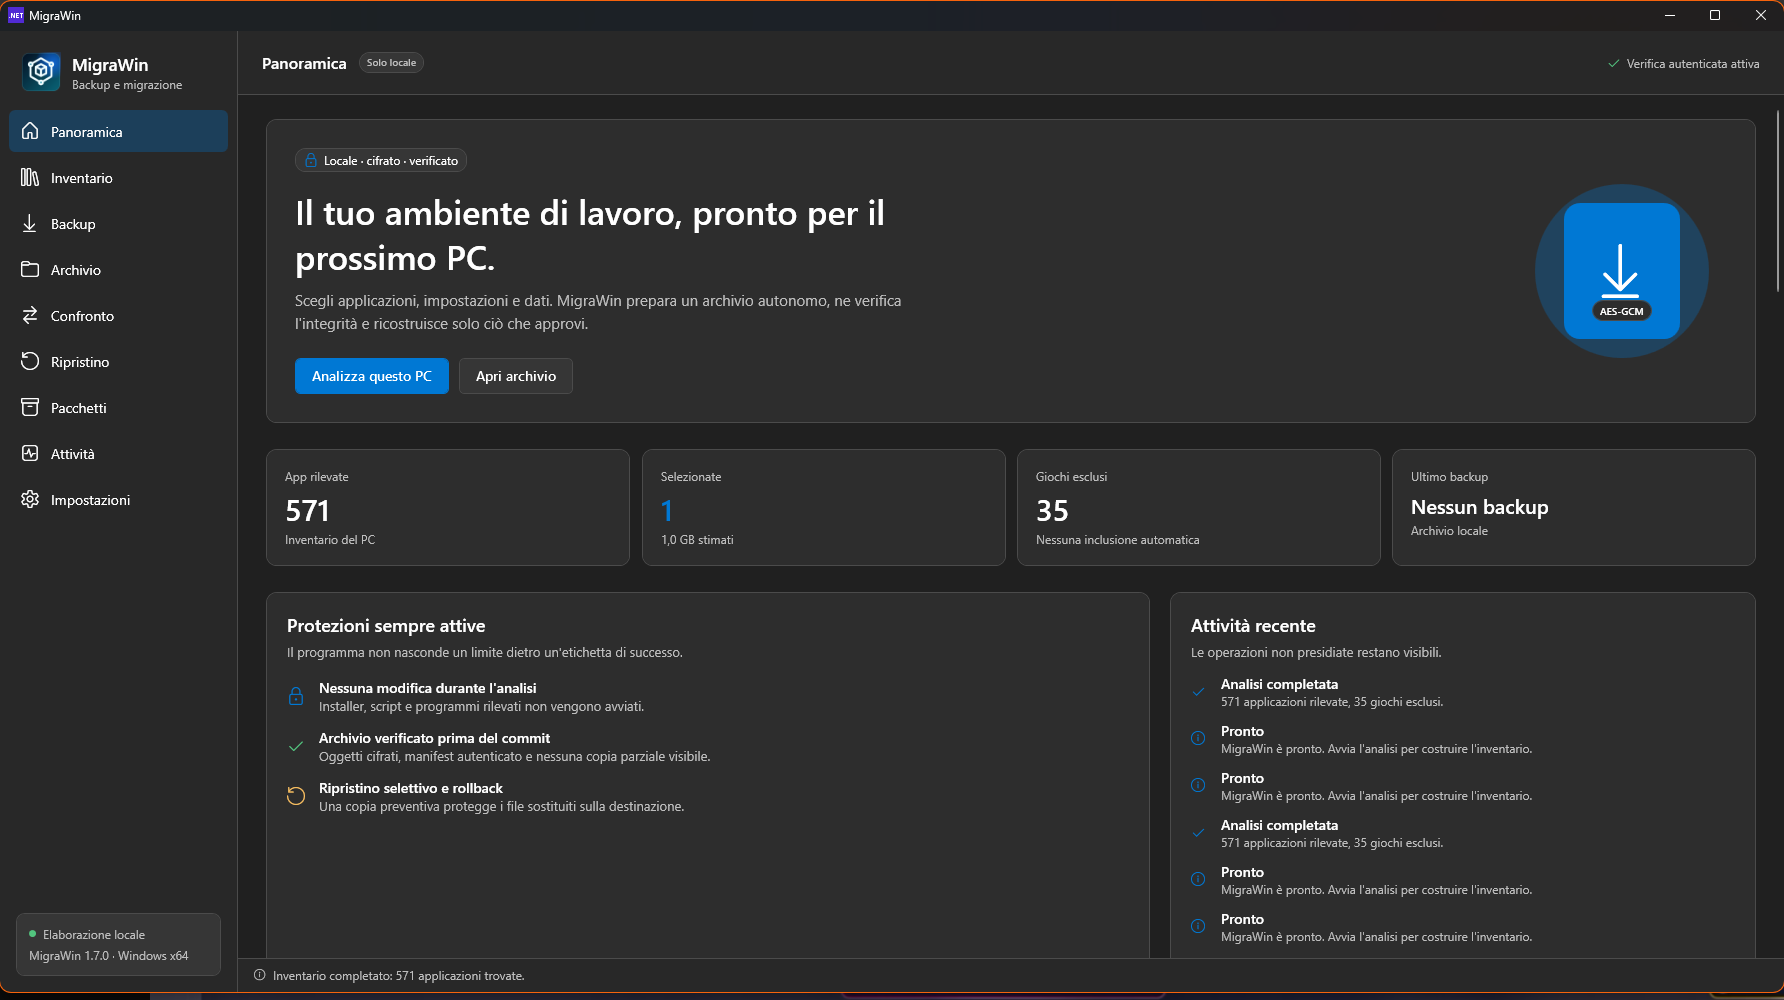
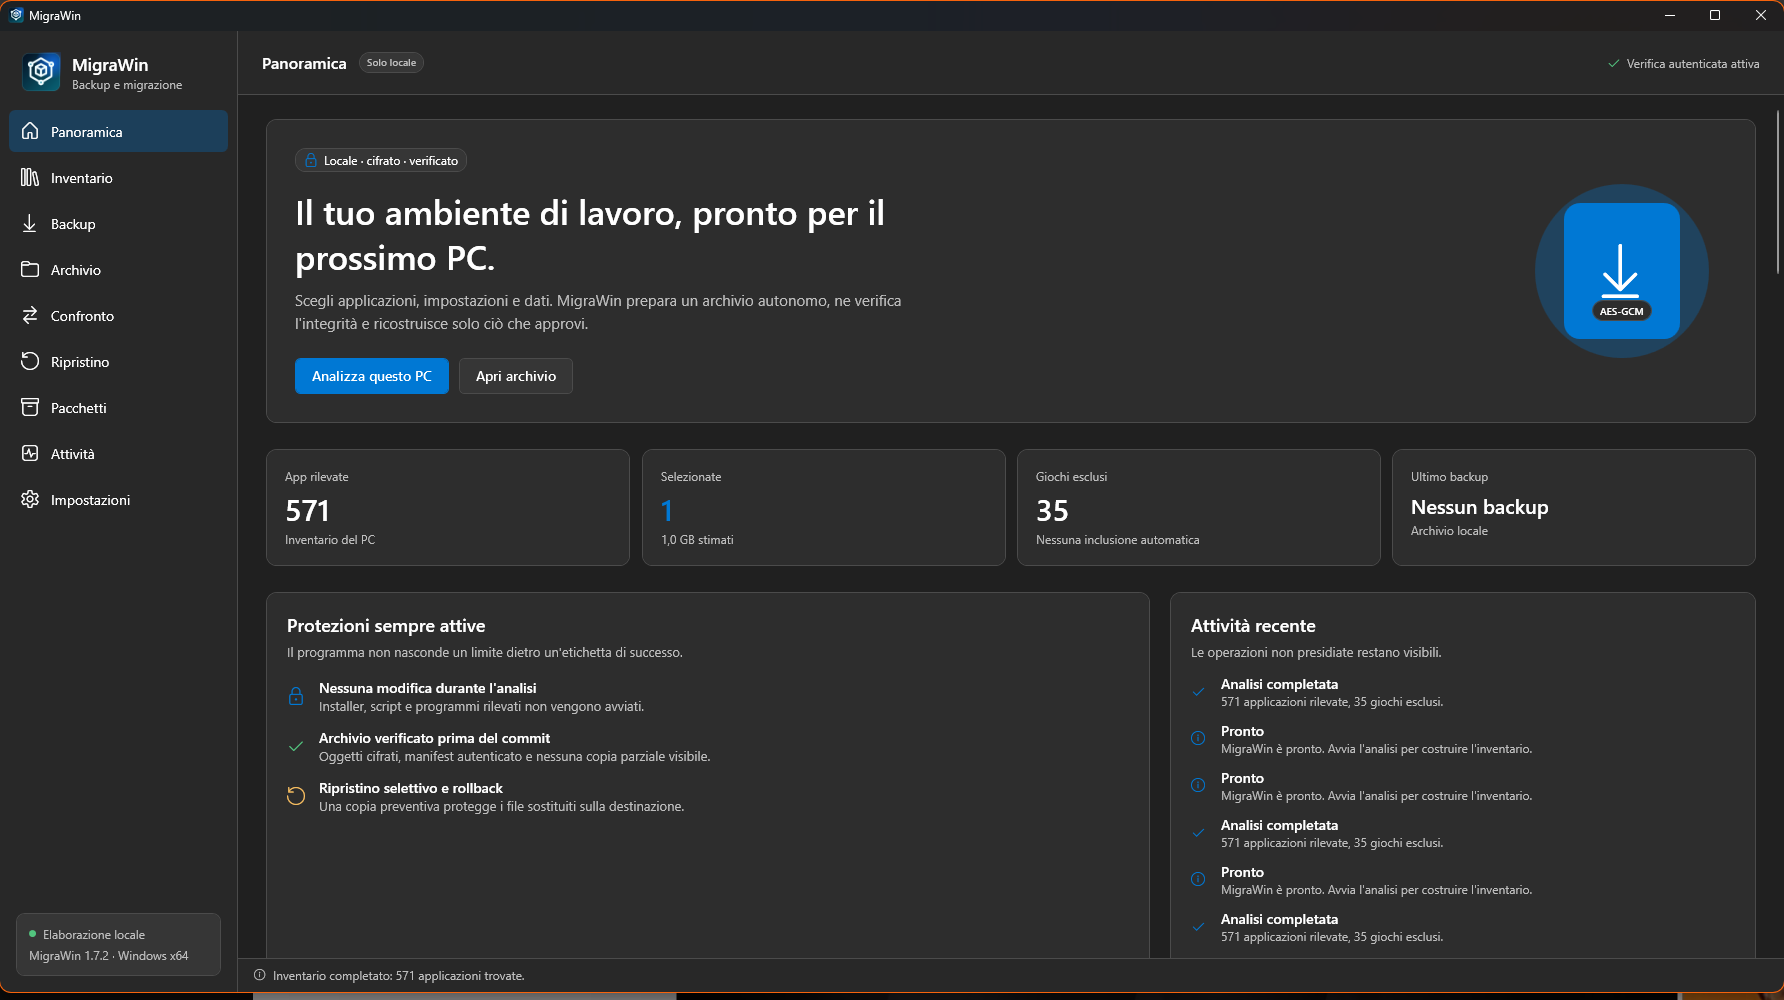
Record verified 1.7.2 release

Changed region(s): [[0.0617, 0.992, 1.0, 1.0], [0.6783, 0.899, 0.8324, 0.961], [0.0, 0.0, 0.0308, 0.031]]

diff --git a/PLAN.md b/PLAN.md
@@ -73,23 +73,24 @@ Ulteriori verifiche effettuate:
 - `dotnet list package --vulnerable --include-transitive`: nessun pacchetto vulnerabile;
 - build Debug e Release senza errori;
 - MSI installato con codice 0;
-- avvio del binario self-contained installato dalla release 1.7.0, finestra responsiva.
+- avvio del binario self-contained installato dalla release 1.7.2, finestra responsiva.
 - accessibilità UI: nessun controllo interattivo visibile privo di nome;
 - icone applicazione estratte dal PC e galleria promozionale ufficiale verificate visivamente in Visual Studio Code;
 - icona fornita e modernizzata verificata nell'API, nell'eseguibile e nella finestra installata;
 - repository pubblico: `https://github.com/renegadeFree/MigraWin`;
-- release pubblica: `https://github.com/renegadeFree/MigraWin/releases/tag/v1.7.0`;
-- GitHub Action della release `v1.7.0` completata con esito `success`;
-- Windows CI sul commit `57ba6a1` completata con esito `success`: build, test, installazione MSI, self-check, menu Start, collegamento Desktop e disinstallazione;
[1 lines of base64/hex data omitted]
+- release pubblica: `https://github.com/renegadeFree/MigraWin/releases/tag/v1.7.2`;
+- GitHub Action della release `v1.7.2` completata con esito `success`;
+- Windows CI sul commit `de52fc9` completata con esito `success`: build, test, installazione MSI, self-check, menu Start, collegamento Desktop e disinstallazione;
[1 lines of base64/hex data omitted]
 - aggiornamento reale 1.4.0 → 1.4.1 rilevato e scaricato;
 - installazione passiva MSI verificata da `Downloads\MigraWinUpdates`;
-- release pubblica `v1.7.0` installata con codice 0 e avviata correttamente;
+- release pubblica `v1.7.2` installata con codice 0 e avviata correttamente;
 - collegamento Desktop verificato prima dell'installazione, dopo l'installazione e dopo la disinstallazione;
 - scansione reale con applicazioni e strumenti, inclusi script personali e configurazioni locali;
 - strumenti verificati nell'inventario: Enter for rename, PM2, n8n, Pi Agent e Proxy DeepSeek per Codex;
 - n8n verificato con package da circa 1 GB, database/WAL, storage, nodi personalizzati, wrapper CLI e dump PM2 nel piano di backup;
-- assenza del processo n8n nel dump PM2 corrente rilevata e mostrata esplicitamente nell'interfaccia.
+- avvio n8n tramite `avvia_n8n.vbs` rilevato e descritto nell'interfaccia;
+- assenza del processo n8n nel dump PM2 corrente rilevata e mostrata esplicitamente.
 - backup e ripristino Git eseguiti dall'interfaccia reale con contenuto SHA-256 identico prima e dopo.
 
 ## Prossimi incrementi

diff --git a/README.md b/README.md
@@ -99,7 +99,7 @@ Get-FileHash .\MigraWin-1.7.2-x64.msi -Algorithm SHA256
 Hash SHA-256 della release 1.7.2:
 
 ```text
-Il valore aggiornato è pubblicato anche in SHA256SUMS.txt nella release.
[1 lines of base64/hex data omitted]
 ```
 
 > **Nota sulla firma digitale:** la release corrente non ha una firma Authenticode di distribuzione. Windows può quindi mostrare un avviso SmartScreen. La pipeline di firma è pronta e viene attivata quando è disponibile un certificato valido.
